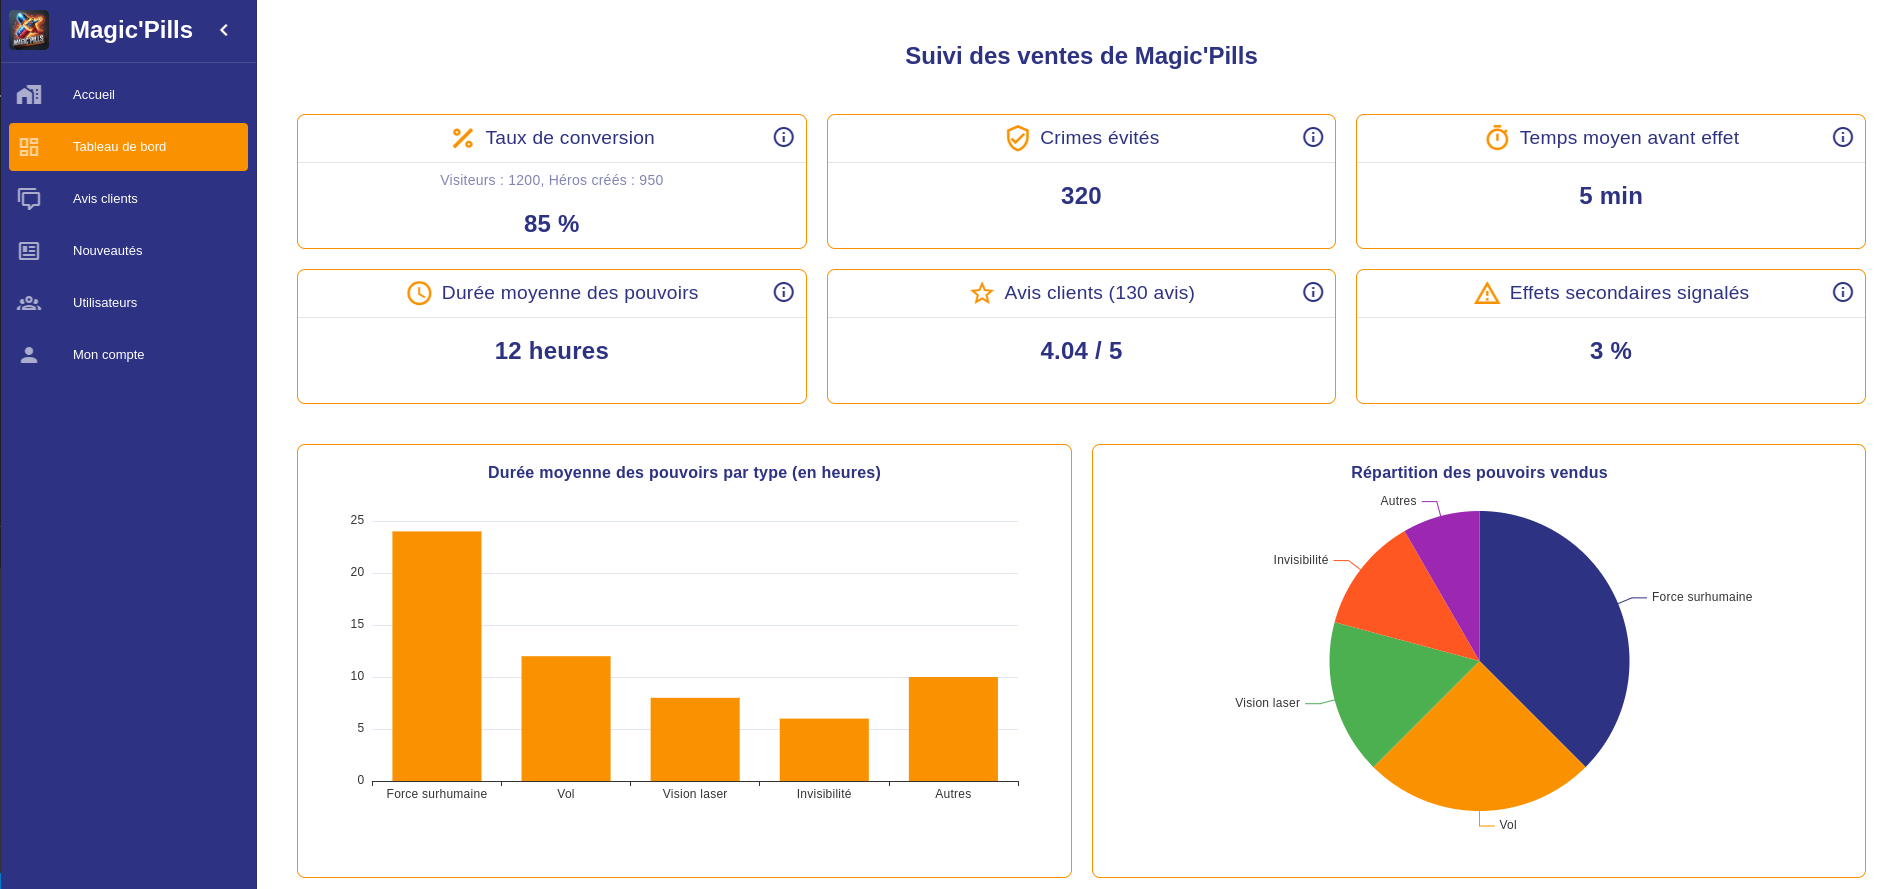
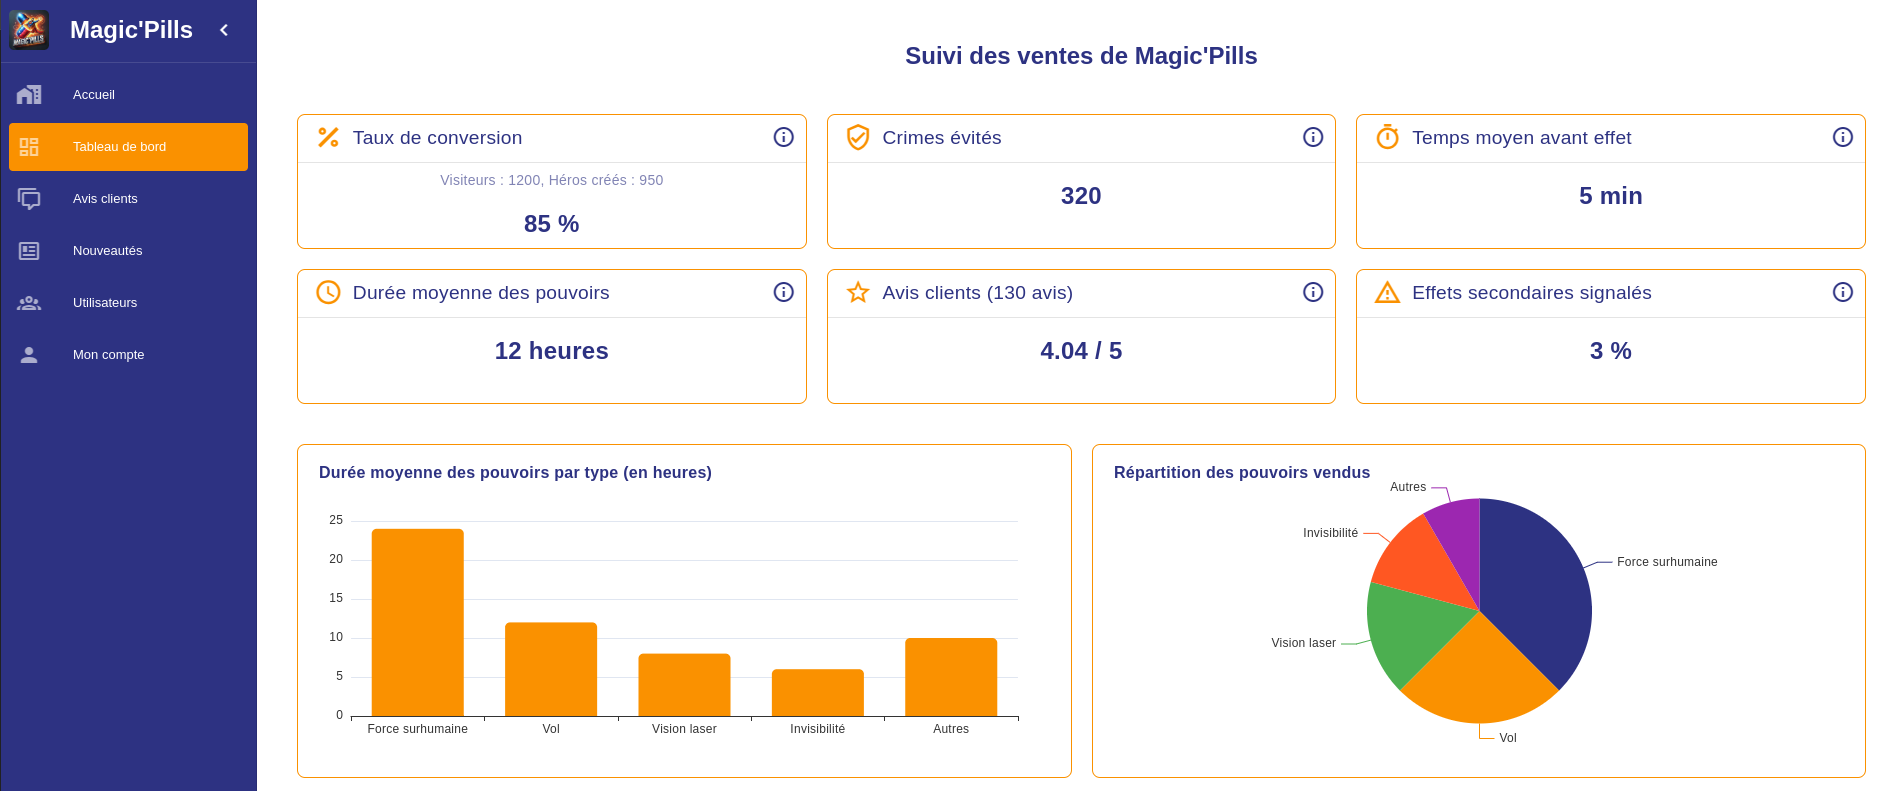
refactor: enhance KpiCard and KpiChart components with improved layout and styling

diff --git a/src/components/KpiChart/KpiChart.vue b/src/components/KpiChart/KpiChart.vue
@@ -93,7 +93,7 @@ function getChartOptions(): EChartsOption {
   return {
     title: {
       text: props.title,
-      left: 'center',
+      left: 'left',
       textStyle: { fontSize: 16, color: '#2d3282', fontWeight: 'bold' },
     },
     tooltip: { trigger: 'item' },
@@ -131,7 +131,7 @@ function getChartOptions(): EChartsOption {
     series: [
       {
         name: props.title,
-        type: props.chartType || 'bar',
+        type: props.chartType,
         data: getData(),
         itemStyle: {
           color:
@@ -140,7 +140,6 @@ function getChartOptions(): EChartsOption {
                   props.barColors?.[dataIndex % props.barColors.length] || DEFAULT_COLOR
               : undefined,
           barBorderRadius: props.chartType === 'bar' ? [5, 5, 0, 0] : undefined,
-          shadowColor: 'rgba(0, 0, 0, 0.2)',
         },
         smooth: props.chartType === 'line',
         areaStyle: props.chartType === 'line' ? { opacity: 0.3 } : undefined,

diff --git a/src/components/KpiCard/KpiCard.vue b/src/components/KpiCard/KpiCard.vue
@@ -1,10 +1,12 @@
 <template>
   <v-card class="kpi-card-container">
-    <v-card-title class="kpi-card-title">
-      <v-icon v-if="props.icon" :style="{ color: props.iconColor }" class="mr-2" aria-hidden="true">
-        {{ props.icon }}
-      </v-icon>
-      <span id="kpi-title">{{ props.title }}</span>
+    <v-card-title class="kpi-card-header">
+      <div class="kpi-card-title">
+        <v-icon v-if="props.icon" :style="{ color: props.iconColor }" aria-hidden="true">
+          {{ props.icon }}
+        </v-icon>
+        <span class="kpi-title-text">{{ props.title }}</span>
+      </div>
 
       <v-tooltip v-if="props.tooltip" location="bottom" open-on-click>
         <template v-slot:activator="{ props: tooltipProps }">
@@ -50,4 +52,9 @@ const props = defineProps<KpiCardProps>();
 
 <style scoped lang="scss">
 /* style dans kpiCard.scss */
+.kpi-card-header {
+  display: flex;
+  justify-content: space-between;
+  align-items: center;
+}
 </style>

diff --git a/src/styles/components/kpiCard.scss b/src/styles/components/kpiCard.scss
@@ -13,6 +13,16 @@
   height: 135px !important;
 }
 
+.kpi-card-container:hover {
+  box-shadow: 0 0 20px 0 rgba(0, 0, 0, 0.1) !important;
+}
+
+.kpi-card-header {
+  display: flex;
+  justify-content: space-between;
+  align-items: center;
+}
+
 .kpi-card-title {
   font-size: $font-size-large !important;
   color: $primary-color;
@@ -20,6 +30,10 @@
   align-items: center;
   justify-content: center;
   text-align: center;
+}
+
+.kpi-title-text {
+  margin-left: 10px;
 }
 
 .kpi-card-subtitle {

diff --git a/src/styles/components/kpiChart.scss b/src/styles/components/kpiChart.scss
@@ -7,6 +7,10 @@
   box-shadow: none !important;
 }
 
+.kpi-chart-card:hover {
+  box-shadow: 0 0 20px 0 rgba(0, 0, 0, 0.1) !important;
+}
+
 .kpi-chart {
   min-width: 500px;
   min-height: 300px;
